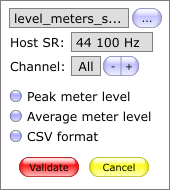
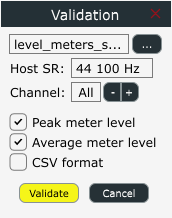
re-ordered buttons on skin
* updated manual

diff --git a/doc/trakmeter.tex b/doc/trakmeter.tex
@@ -287,6 +287,22 @@ settings by deleting \path{trakmeter_stereo.ini} or
 \chapter{Controls}
 \label{chap:controls}
 
+\section{Recording level buttons}
+\label{sec:headroom_buttons}
+
+\begin{wrapfigure}{r}{0.14\linewidth}
+\includegraphics[scale=\screenshotscale,clip]{include/images/button_recording_level.png}
+\end{wrapfigure}
+
+Select your preferred maximum peak recording level with these buttons.
+To follow my advice set out in \ref{sec:gain_staging}, all you have to
+do is stick with the default setting of \textbf{\SI{-10}{dBFS}}.
+
+If you record very dynamic material or have problems getting a clean
+signal, you should try the other two settings.  They will add
+additional headroom by shifting the scales down by either \SI{5}{dB}
+or \SI{10}{dB}.
+
 \section{Reset button}
 \label{sec:reset_button}
 
@@ -310,8 +326,6 @@ reload the current skin and re-draw everything.
 Click on this button to select the currently used traKmeter skin.  You
 can also set a default skin that will be loaded when new plug-ins are
 instantiated.
-
-\newpage %% layout
 
 \section{Validation button}
 \label{sec:validation_button}
@@ -367,8 +381,8 @@ the license's website in your web browser \dots
 \label{chap:meters}
 
 All meters possess a completely flat frequency response.  Meter scales
-can be adjusted using the ``Crest factor'' button (see
-\ref{sec:crest_factor_button}).
+can be adjusted using the ``Recording level'' buttons (see
+\ref{sec:headroom_buttons}).
 
 \section{Peak level meter}
 
@@ -479,6 +493,8 @@ may not know some of them, so read ahead \dots
   (floating point) to avoid accumulation of the above-mentioned
   artifacts.
 
+  \href{http://www.aes.org/par/d/\#data_converter_bits}{AES}
+
 \item[Try different sample rates.]  Recording at certain sample rates
   may sound better, so experiment and get to know your converters.
   But try to keep the sample rate to exact multiples of the target
@@ -488,6 +504,9 @@ may not know some of them, so read ahead \dots
 
   Only use professional software for sample rate conversion.  This is
   by no means a trivial task.
+
+  \href{http://www.lavryengineering.com/pdfs/lavry-white-paper-the_optimal_sample_rate_for_quality_audio.pdf}{Lavry
+    Engineering}
 
 \item[Concentrate on recording.]  When tracking, try to not interfere
   with the flow of the session.  This is easily done by keeping
